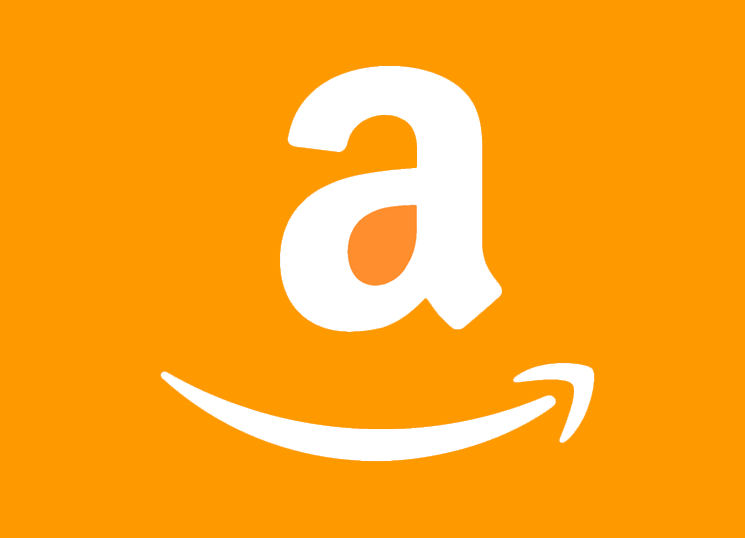
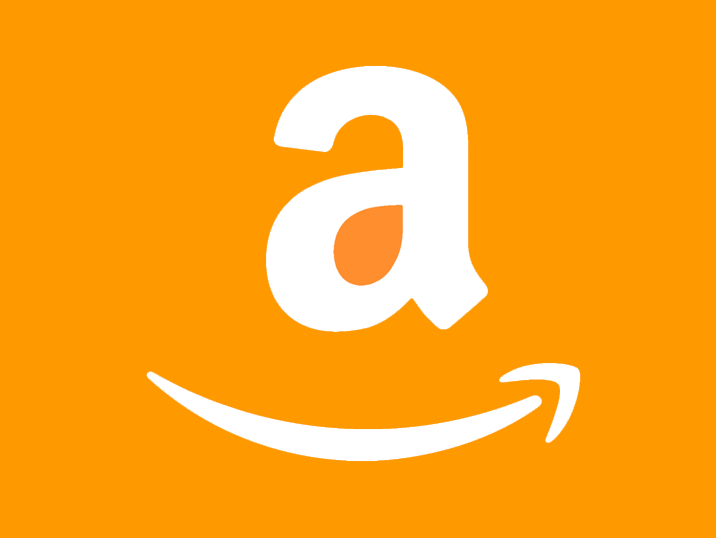
Resized portfolio images, added IA role, updated resume

diff --git a/index.html b/index.html
@@ -101,6 +101,11 @@ _______ _______ ___ ___   _______ _______ _______ ______ _______
                         <hr class="star-light">
                         <span class="skills">Developer  -  Game Addict  -  Travel Enthusiast</span>
                     </div>
+                  <div class="col-lg-8 col-lg-offset-2 text-center">
+                      <a href="cv.pdf" class="btn btn-lg btn-outline" download>
+                        <i class="fa fa-download"></i>&nbsp;&nbsp;My Resume
+                      </a>
+                  </div>
                 </div>
             </div>
         </div>
@@ -116,6 +121,16 @@ _______ _______ ___ ___   _______ _______ _______ ______ _______
                 </div>
             </div>
             <div class="row">
+                <div class="col-sm-4 portfolio-item">
+                    <a href="#HKNModal" class="portfolio-link" data-toggle="modal">
+                        <div class="caption">
+                            <div class="caption-content">
+                                <i class="fa fa-search-plus fa-3x"></i>
+                            </div>
+                        </div>
+                        <img src="img/portfolio/hkn-logo.png" class="img-responsive" alt="HKN">
+                    </a>
+                </div>
                 <div class="col-sm-4 portfolio-item">
                     <a href="#SHSModal" class="portfolio-link" data-toggle="modal">
                         <div class="caption">
@@ -167,13 +182,13 @@ _______ _______ ___ ___   _______ _______ _______ ______ _______
                     </a>
                 </div>
                 <div class="col-sm-4 portfolio-item">
-                    <a href="#HKNModal" class="portfolio-link" data-toggle="modal">
+                    <a href="#IAModal" class="portfolio-link" data-toggle="modal">
                         <div class="caption">
                             <div class="caption-content">
                                 <i class="fa fa-search-plus fa-3x"></i>
                             </div>
                         </div>
-                        <img src="img/portfolio/hkn-logo.jpg" class="img-responsive" alt="HKN">
+                        <img src="img/portfolio/classroom.jpg" class="img-responsive" alt="University of Michigan Instructional Aide">
                     </a>
                 </div>
                 <div class="col-sm-4 portfolio-item">
@@ -215,11 +230,6 @@ _______ _______ ___ ___   _______ _______ _______ ______ _______
                 </div>
                 <div class="col-lg-4">
                     <p>While orginally from California, I've travelled the world in search of educational opportunities, unforgettable experiences, and authentic cuisine. I hope to visit every continent, I've still got Africa, Australia, and Antarctica to go!</p>
-                </div>
-                <div class="col-lg-8 col-lg-offset-2 text-center">
-                    <a href="cv.pdf" class="btn btn-lg btn-outline" download>
-                        <i class="fa fa-download"></i> My Resume
-                    </a>
                 </div>
             </div>
         </div>
@@ -503,7 +513,7 @@ _______ _______ ___ ___   _______ _______ _______ ______ _______
                         <div class="modal-body">
                             <h2>Eta Kappa Nu, Beta Epsilon</h2>
                             <hr class="star-primary">
-                            <img src="img/portfolio/hkn-logo.jpg" class="img-responsive img-centered" alt="">
+                            <img src="img/portfolio/hkn-logo.png" class="img-responsive img-centered" alt="">
                             <p>
                                 The Beta Epsilon chapter of HKN is composed of the top electrical, computer, and computer science engineers at the University of Michigan. I served on the officer corps as treasurer, corporate relations, and president.
                             </p><p>
@@ -549,6 +559,38 @@ _______ _______ ___ ___   _______ _______ _______ ______ _______
                             <ul class="list-inline item-details">
                                 <li class="li-date">
                                     June 2017 - September 2017
+                                </li>
+                            </ul>
+                            <button type="button" class="btn btn-default" data-dismiss="modal"><i class="fa fa-times"></i> Close</button>
+                        </div>
+                    </div>
+                </div>
+            </div>
+        </div>
+    </div>
+
+    <!-- UMich IA -->
+    <div class="portfolio-modal modal fade" id="IAModal" tabindex="-1" role="dialog" aria-hidden="true">
+        <div class="modal-content">
+            <div class="close-modal" data-dismiss="modal">
+                <div class="lr">
+                    <div class="rl">
+                    </div>
+                </div>
+            </div>
+            <div class="container">
+                <div class="row">
+                    <div class="col-lg-8 col-lg-offset-2">
+                        <div class="modal-body">
+                            <h2>University of Michigan Instructional Aide</h2>
+                            <hr class="star-primary">
+                            <img src="img/portfolio/classroom.jpg" class="img-responsive img-centered" alt="">
+                            <p>
+															  Worked as an assistant to professors in EECS 370: Introduction to Computer Organization. Aside from standard IA responsibilities like hosting office hours, answering student questions on Piazza, and grading assignments, I personally managed the course website and calendar and hosted a discussion section of 40 students.
+														</p>
+                            <ul class="list-inline item-details">
+                                <li class="li-date">
+                                    Since January 2018
                                 </li>
                             </ul>
                             <button type="button" class="btn btn-default" data-dismiss="modal"><i class="fa fa-times"></i> Close</button>
